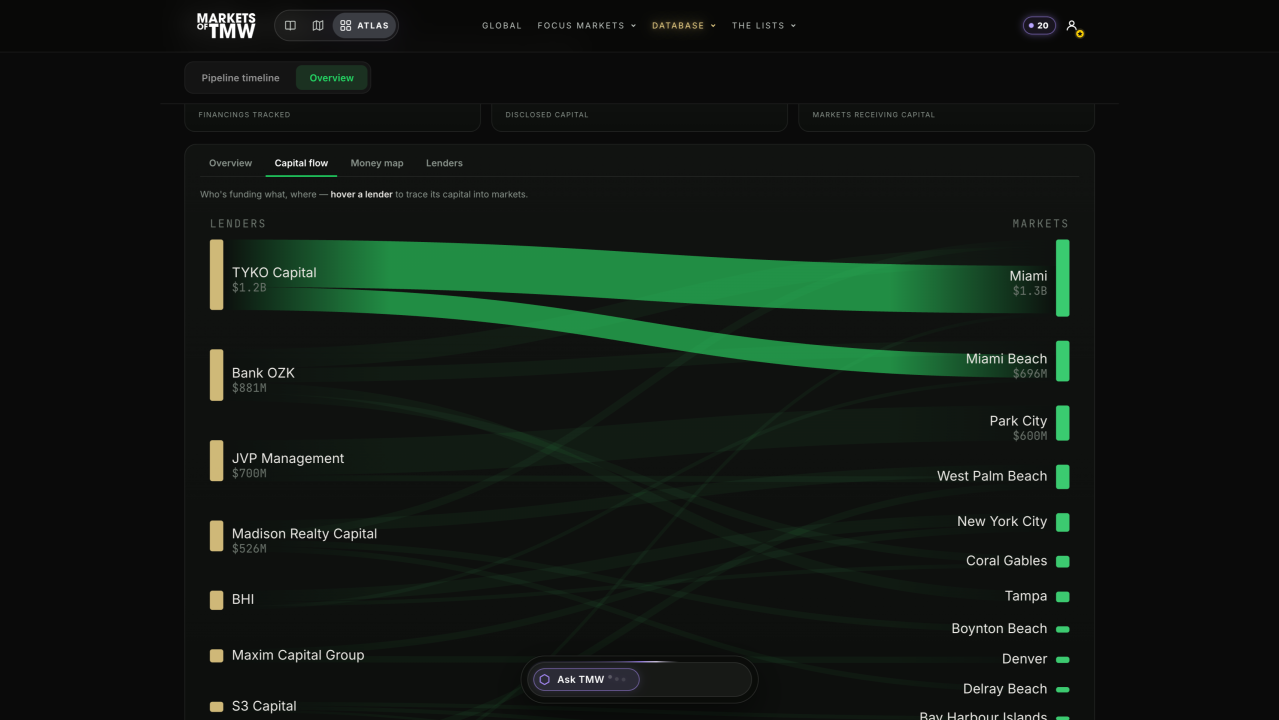
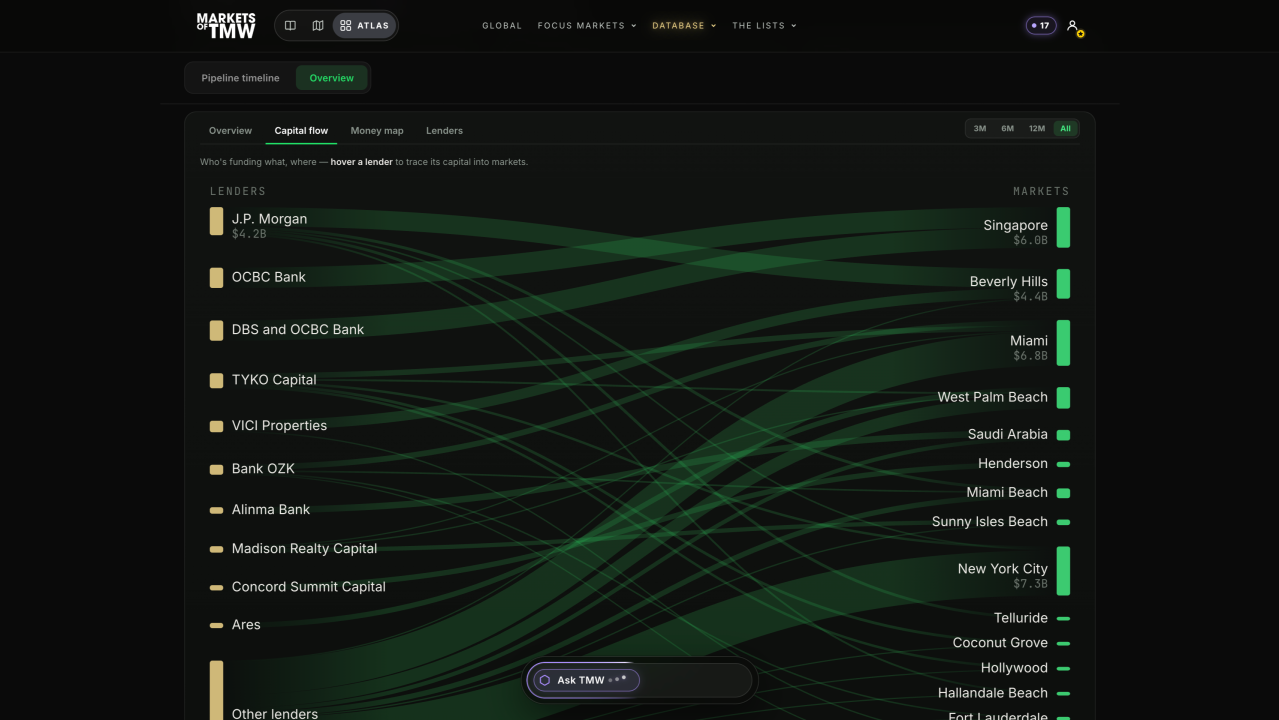
Releases: refresh edition 2 images and add new inline image from LinkedIn

diff --git a/journal/releases/edition2/index.html b/journal/releases/edition2/index.html
@@ -114,14 +114,15 @@ a{color:inherit;text-decoration:none}
 <figure><img src="/releases/img/ed2-1.jpg" alt="" loading="lazy"></figure>
 <h2>Follow the money</h2>
 <p>A development press release is very good at telling you what is being built and almost silent on who is paying for it. That is not an accident. The financing is the part the real estate and investor market actually cares about and the part the public and news feed decides not to lead with to better market towards consumers.</p>
+<figure><img src="/releases/img/ed2-2.jpg" alt="" loading="lazy"></figure>
 <p>So we taught the pipeline to read it. Every time our nightly sweep logs a financing milestone now, it captures two things it used to drop on the floor: the loan amount and the lender. And we went back and starting mining the history too, parsing amounts and lender names out of the notes we already had, backfilling hundreds of deals with a real dollar figure. The first version of this tried to parse the money out of the source URLs, which was clever and found exactly one figure in the entire database, so we threw it out and parsed the note itself instead. The boring approach won, which is usually how it goes.</p>
 <p>Here is why this matters more than it looks. The verified pipeline of 1,000+ projects was already the moat. But a pipeline tells you what is rising. Following the money tells you what is real. Capital is the earliest and most honest signal in this business. A project with a construction loan closed is a different animal than a project with a rendering and a prayer, and now the database knows the difference, at the level of dollars and names. We surfaced the first slice of it as a “Follow the Money” module on the Atlas and the homepage. It is the pipeline, but for capital instead of concrete.</p>
-<figure><img src="/releases/img/ed2-2.jpg" alt="" loading="lazy"></figure>
+<figure><img src="/releases/img/ed2-3.jpg" alt="" loading="lazy"></figure>
 <h2>Onyx stopped waiting to be asked</h2>
 <p>Last week, we shipped Deep mode, the Pro layer that reasons across a hundred-plus projects to answer the questions that are briefs, not lookups. That was still a thing you had to go ask.</p>
 <p>This week Onyx started answering before you ask. We shipped the weekly Brief, a running read on your specific beat, the markets, firms, and projects you follow, assembled into what moved this week and pinned as a card every Friday. You do not query it. It arrives. The watchlist that used to be a static list of things you saved grew up into something that hunts while you sleep and hands you the results on Monday morning.</p>
 <p>The shift here is too small to describe and too large in practice. Reactive intelligence answers well. Proactive intelligence changes what you pay attention to. The most valuable thing an analyst does is not answer your question, but tell you the thing you did not know to ask about. That is the direction the Brief points, and it is the direction everything we build is walking.</p>
-<figure><img src="/releases/img/ed2-3.jpg" alt="" loading="lazy"></figure>
+<figure><img src="/releases/img/ed2-4.jpg" alt="" loading="lazy"></figure>
 <h2>Every answer is a door now</h2>
 <p>The last piece is the least glamorous and the one I like most. Onyx answers used to be dead ends. Beautiful paragraphs, and then nothing, a wall of text you had to copy a name out of and paste into a new search.</p>
 <p>Now every firm and every market inside an answer is a live link deeper into the database. Ask about a developer, and the answer lists every market they are in, not just their home city, each one clickable. Ask a country-level question, China and twenty others that used to return a blank, and it resolves.</p>

diff --git a/generate_releases.py b/generate_releases.py
@@ -84,14 +84,15 @@ EDITIONS = [
       ("img", "ed2-1.jpg"),
       ("h", "Follow the money"),
       ("p", "A development press release is very good at telling you what is being built and almost silent on who is paying for it. That is not an accident. The financing is the part the real estate and investor market actually cares about and the part the public and news feed decides not to lead with to better market towards consumers."),
+      ("img", "ed2-2.jpg"),
       ("p", "So we taught the pipeline to read it. Every time our nightly sweep logs a financing milestone now, it captures two things it used to drop on the floor: the loan amount and the lender. And we went back and starting mining the history too, parsing amounts and lender names out of the notes we already had, backfilling hundreds of deals with a real dollar figure. The first version of this tried to parse the money out of the source URLs, which was clever and found exactly one figure in the entire database, so we threw it out and parsed the note itself instead. The boring approach won, which is usually how it goes."),
       ("p", "Here is why this matters more than it looks. The verified pipeline of 1,000+ projects was already the moat. But a pipeline tells you what is rising. Following the money tells you what is real. Capital is the earliest and most honest signal in this business. A project with a construction loan closed is a different animal than a project with a rendering and a prayer, and now the database knows the difference, at the level of dollars and names. We surfaced the first slice of it as a “Follow the Money” module on the Atlas and the homepage. It is the pipeline, but for capital instead of concrete."),
-      ("img", "ed2-2.jpg"),
+      ("img", "ed2-3.jpg"),
       ("h", "Onyx stopped waiting to be asked"),
       ("p", "Last week, we shipped Deep mode, the Pro layer that reasons across a hundred-plus projects to answer the questions that are briefs, not lookups. That was still a thing you had to go ask."),
       ("p", "This week Onyx started answering before you ask. We shipped the weekly Brief, a running read on your specific beat, the markets, firms, and projects you follow, assembled into what moved this week and pinned as a card every Friday. You do not query it. It arrives. The watchlist that used to be a static list of things you saved grew up into something that hunts while you sleep and hands you the results on Monday morning."),
       ("p", "The shift here is too small to describe and too large in practice. Reactive intelligence answers well. Proactive intelligence changes what you pay attention to. The most valuable thing an analyst does is not answer your question, but tell you the thing you did not know to ask about. That is the direction the Brief points, and it is the direction everything we build is walking."),
-      ("img", "ed2-3.jpg"),
+      ("img", "ed2-4.jpg"),
       ("h", "Every answer is a door now"),
       ("p", "The last piece is the least glamorous and the one I like most. Onyx answers used to be dead ends. Beautiful paragraphs, and then nothing, a wall of text you had to copy a name out of and paste into a new search."),
       ("p", "Now every firm and every market inside an answer is a live link deeper into the database. Ask about a developer, and the answer lists every market they are in, not just their home city, each one clickable. Ask a country-level question, China and twenty others that used to return a blank, and it resolves."),
